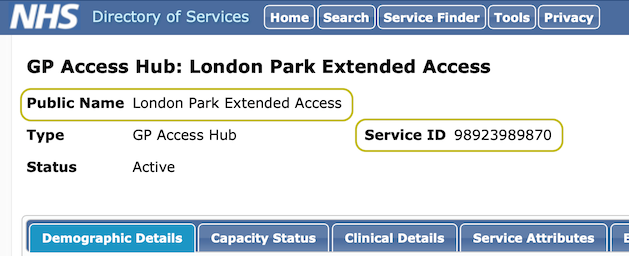
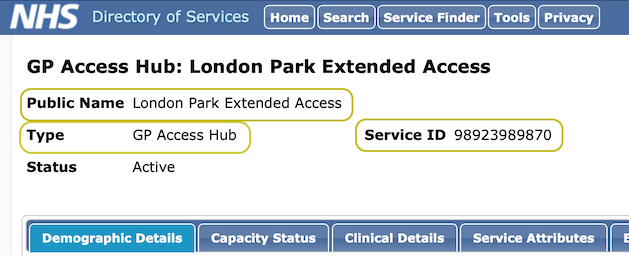
Service ID filtering organisation configuration #1081

Changed region(s): [[0.0302, 0.4688, 0.4229, 0.625]]

diff --git a/pages/appointments/appointments_serviceid_configuration.md b/pages/appointments/appointments_serviceid_configuration.md
@@ -87,15 +87,16 @@ A service in the list **SHALL** at a minimum be comprised of:
 
 - service ID
 - service name
+- service type
 
 The user at the organisation **SHALL** be able to:
 
 - view the list
 - add, delete and change the services in the list
 
-{% include note.html content="The correct service IDs and names to use will be determined with assistance from the DOS leads" %}
+{% include note.html content="The correct list of services for a provider organisation to configure will be determined with assistance from the DOS leads" %}
 
-The screenshot below shows an example service in Directory of Service (DOS) showing the service ID and name fields.
+The screenshot below shows an example service in Directory of Service (DOS) showing the service ID, name and type fields.
 
 <img src="images/appointments/dos-screenshot.png" style="width: 500px; padding-bottom: 10px;" />
 
@@ -112,7 +113,7 @@ If there is already a list of DOS service IDs in the provider system provided by
 
 Provider systems **MAY** make use of the [Search by Service ID](https://developer.nhs.uk/apis/dos-api/byServiceId.html) endpoint in the DOS API to:
 - validate that any service ID entered by the user appears on the DOS and is therefore a valid service
-- pull back the service name which corresponds with the service id and display it on the screen
+- pull back the service name and type which corresponds with the service ID and display it on the screen
 
 The *Service by ODS Code* endpoint in the DOS API **MUST NOT** be used as this will not return a complete list of DOS services provided by an organisation.  Furthermore it is important that when entering the service list, the user is assisted by their DOS lead, to ensure the DOS correctly represents the services offered by their organisation.
 
